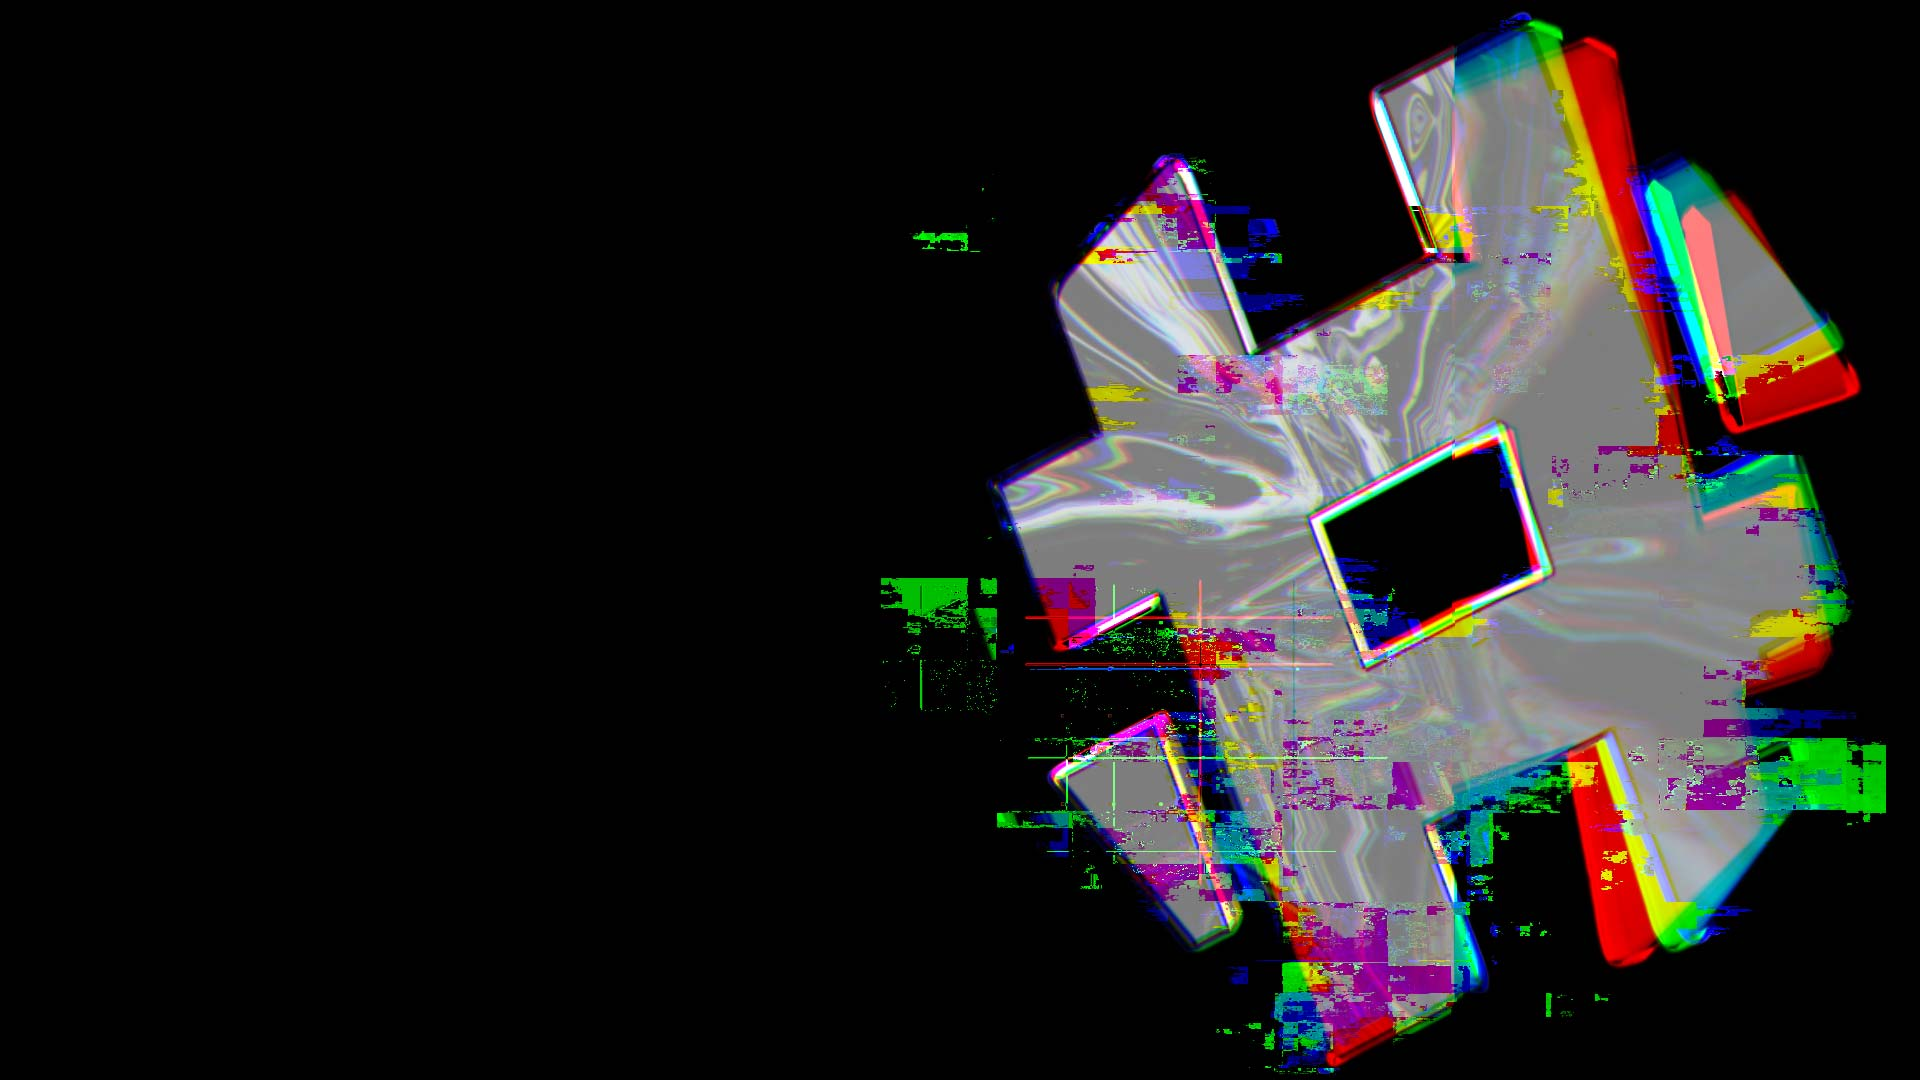
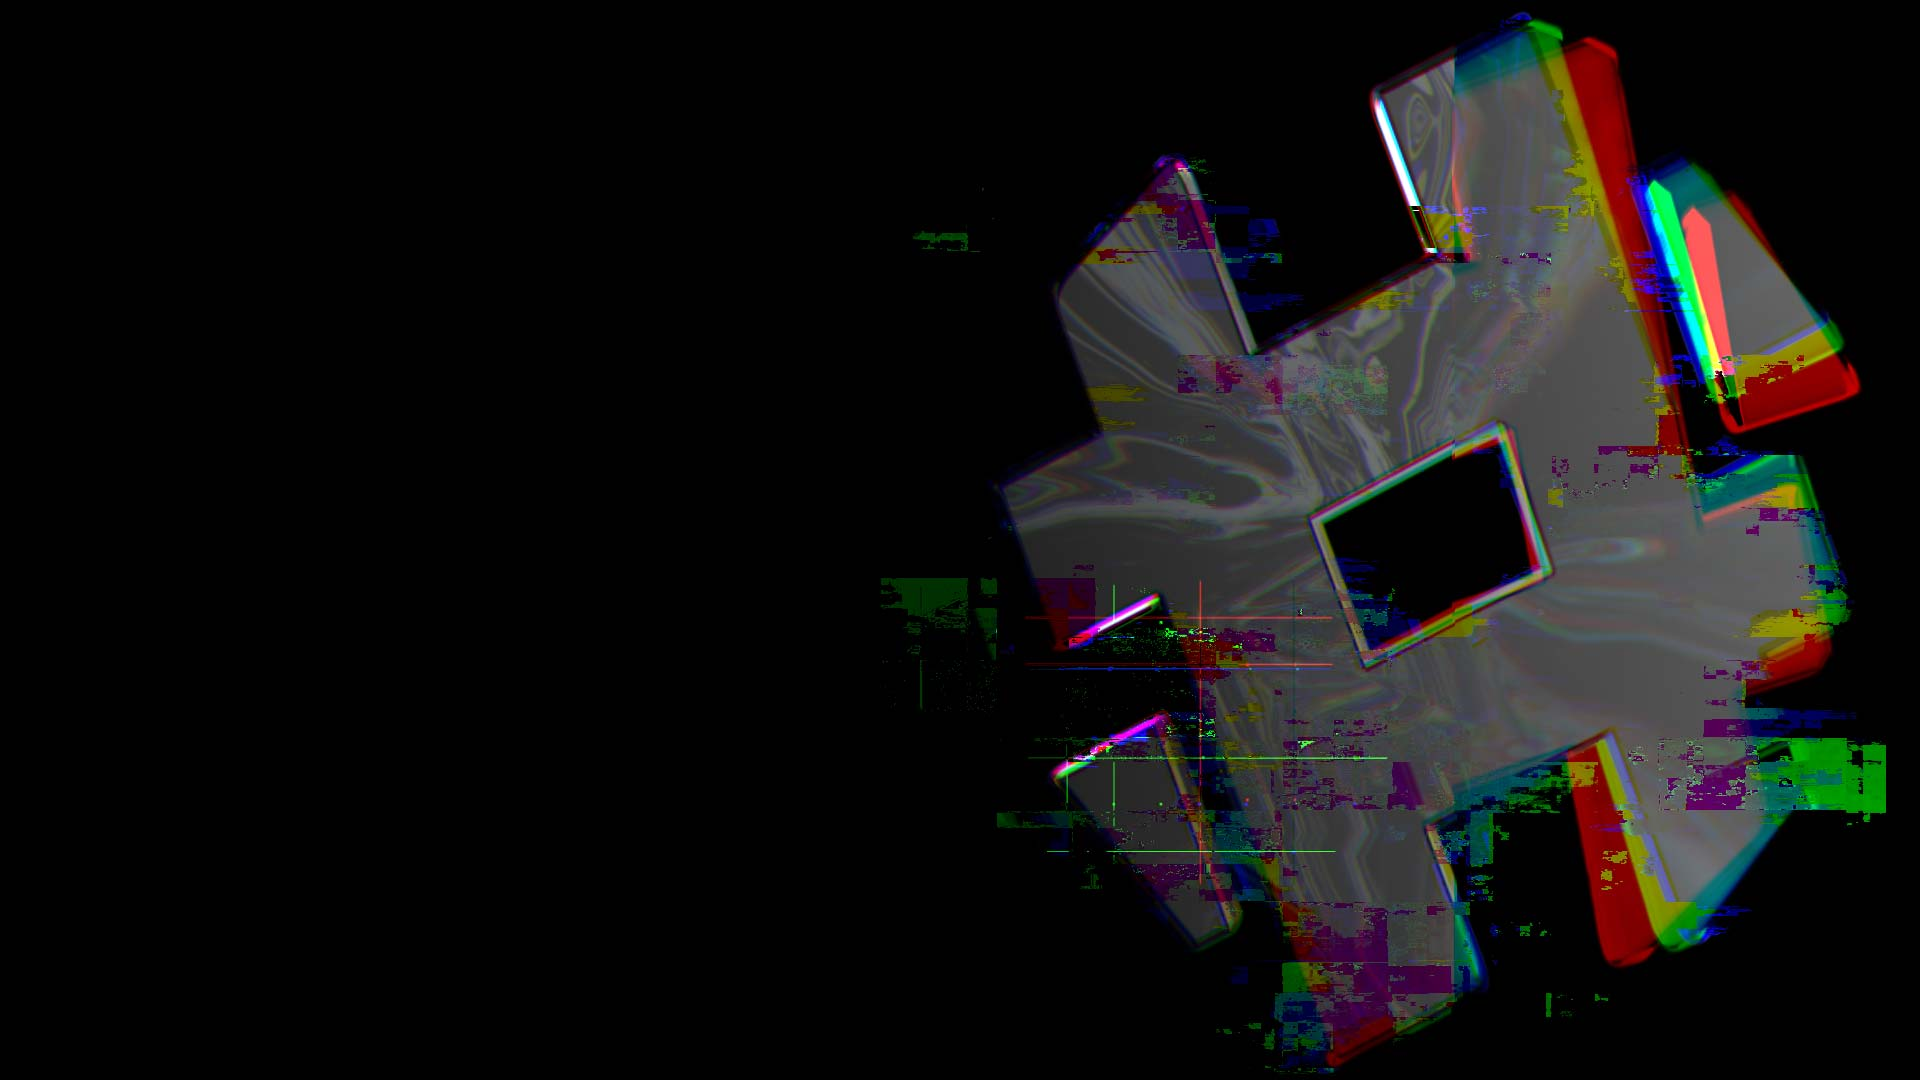
add animations to subpages

Changed region(s): [[0.4375, 0.0, 1.0, 1.0], [0.4688, 0.2139, 0.5, 0.2444]]

diff --git a/src/components/pages/Gamers/PlatformInfo/platformInfo.tsx b/src/components/pages/Gamers/PlatformInfo/platformInfo.tsx
@@ -1,19 +1,27 @@
 import { Flex, Image, Text, Box } from '@chakra-ui/react';
-import React from 'react';
+import React, { useRef, useState, } from 'react';
 import GameXplorerLogo from '../../../../Icons/gameXplorerLogo';
 import PlayVideoIcon from '../../../../Icons/playVideoIcon';
 import SectionInfoButton from '../../../SectionLabel/sectionInfoButton';
 import { Colors } from '../../../../colors';
 import ChevronRightIcon from '../../../../Icons/chevronRightIcon';
+import { HashpadScroll } from './hashPadSroll';
+import { CartridgesScroll } from './cartridgesScroll';
 
 export const PlatformInfo = () => {
+
+	const ref = useRef(null!);
+	const inputRef = useRef(null!)
+
+
+
 	return (
 		<Flex direction="column" justifyContent="flex-start">
 			<Flex direction="column" p="0px 0px 0px 150px"> 
         <Flex maxW='20%'>
         <SectionInfoButton label="PLATFORM"/>
         </Flex>
-				<Flex direction="column" fontSize="70px" fontWeight="700" pt="46px" gridGap="-40px" lineHeight="110%">
+				<Flex direction="column" fontSize="70px" fontWeight="700" pt="46px" gridGap="-40px" lineHeight="110%" zIndex='1'>
 					<Text>With hashup you </Text>
 					<Text>can be a gamer without</Text>
 					<Text>
@@ -21,11 +29,13 @@ export const PlatformInfo = () => {
 					</Text>
 				</Flex>
 			</Flex>
-			<Flex direction="column" position='relative' >
-        <Flex>
-				<Image src="./assets/gamerPlatform.png" pt="50px" />
+			<Flex direction="column" position='relative'>
+        <Flex pt='-30px' ref={inputRef}>
+			<HashpadScroll animationHookReference={inputRef} /> {
+			<Image src='assets/images/hash_pad/iPad_00001.jpg' />
+}
         </Flex>
-				<Flex position='absolute' top='50%' justifyContent="space-between" alignItems='center' p='0px 220px 0px 220px' gridGap='150px'>
+				<Flex position='absolute' top='50%' justifyContent="space-between" alignItems='center' p='40px 220px 0px 220px' gridGap='150px' zIndex='1'>
 					<Flex direction="column" justifyContent="flex-start" gridGap="50px">
 						<GameXplorerLogo />
 						<Box fontSize="26px" fontWeight="500">
@@ -62,7 +72,28 @@ export const PlatformInfo = () => {
 					</Flex>
 				</Flex>
         </Flex>
+		<Flex direction="column" justifyContent="flex-start" >
+			<Flex ref={ref} zIndex='0'>
+			<CartridgesScroll animationHookReference={ref} />
 			</Flex>
+			<Flex direction="column" p="500px 0px 0px 210px" zIndex='1'>
+				<Flex pt='100px' maxW="20%">
+					<SectionInfoButton label="LICENSES" />
+				</Flex>
+                <Flex pt='50px' maxW='70%' fontSize='70px' fontWeight='600' lineHeight='110%' direction='column'>
+                    <Text>Cartrigde what</Text>
+                    <Text>is it to the gamer<strong>?</strong></Text>
+                </Flex>
+                <Box pt='50px' fontSize='26px' maxW='50%' fontWeight='500'>
+                    <Text as='span'> The gaming licenses you purchased on the HashUp platform are in the form of <strong>ERC-20 tokens</strong>.</Text>
+                    <Text as='span' color={Colors.additional}> In short, they work just like other cryptocurrencies. </Text>
+                    <Text pt='50px' color={Colors.additional}> Owning a unit entitles the owner to launch the game. </Text>
+                </Box>
+
+			</Flex>
+		</Flex>
+			</Flex>
+			
 	);
 };
 

diff --git a/src/components/pages/Gamers/PlatformInfo/cartridgesScroll.tsx b/src/components/pages/Gamers/PlatformInfo/cartridgesScroll.tsx
@@ -1,0 +1,49 @@
+import React, { useEffect, useState } from 'react';
+import { Flex, Image } from '@chakra-ui/react';
+
+const assetCount = 24;
+
+const getImageId = () => {
+	const assetCount = 24;
+	const indices = Array.from(Array(assetCount).keys());
+
+	return indices.map((index) => `assets/images/hash_cartridges/cartridge_${index.toString().padStart(5, '0')}.jpg`);
+};
+
+const handleOnScroll = (
+	animationHookReference: any,
+	setCurrentAssetIndex: React.Dispatch<React.SetStateAction<number>>
+) => {
+	if (!animationHookReference.current) {
+		return;
+	}
+
+	const { offsetTop } = animationHookReference.current;
+  	const animationBoundEnd = offsetTop - window.scrollY + 500;
+
+  const assetIndex = Math.min(Math.floor(animationBoundEnd / 30), assetCount);
+  setCurrentAssetIndex(assetIndex);
+
+	setCurrentAssetIndex(assetIndex);
+};
+
+interface IHashupLogoBackground {
+	animationHookReference: React.MutableRefObject<HTMLDivElement>;
+}
+
+export const CartridgesScroll = ({ animationHookReference }: IHashupLogoBackground) => {
+	const [currentAssetIndex, setCurrentAssetIndex] = useState(0);
+	const imageUriArray = getImageId();
+	useEffect(() => {
+		window.removeEventListener('scroll', () => handleOnScroll(animationHookReference, setCurrentAssetIndex));
+		window.addEventListener('scroll', () => handleOnScroll(animationHookReference, setCurrentAssetIndex), {
+			passive: true,
+		});
+
+		return () =>
+			window.removeEventListener('scroll', () => handleOnScroll(animationHookReference, setCurrentAssetIndex));
+	}, []);
+    
+	console.log(imageUriArray[currentAssetIndex])
+	return <Image src={imageUriArray[currentAssetIndex]} />;
+};

diff --git a/src/components/pages/Gamers/PlatformInfo/hashPadSroll.tsx b/src/components/pages/Gamers/PlatformInfo/hashPadSroll.tsx
@@ -1,0 +1,49 @@
+import React, { useEffect, useState } from 'react';
+import { Flex, Image } from '@chakra-ui/react';
+
+const assetCount = 24;
+
+const getImageId = () => {
+	const assetCount = 24;
+	const indices = Array.from(Array(assetCount).keys());
+
+	return indices.map((index) => `assets/images/hash_pad/iPad_${index.toString().padStart(5, '0')}.jpg`);
+};
+
+const handleOnScroll = (
+	animationHookReference: any,
+	setCurrentAssetIndex: React.Dispatch<React.SetStateAction<number>>
+) => {
+	if (!animationHookReference.current) {
+		return;
+	}
+
+	const { offsetTop } = animationHookReference.current;
+  	const animationBoundEnd = offsetTop - window.scrollY + 2400;
+
+  const assetIndex = Math.min(Math.floor(animationBoundEnd / 30), assetCount);
+  setCurrentAssetIndex(assetIndex);
+
+	setCurrentAssetIndex(assetIndex);
+};
+
+interface IHashupLogoBackground {
+	animationHookReference: React.MutableRefObject<HTMLDivElement>;
+}
+
+export const HashpadScroll = ({ animationHookReference }: IHashupLogoBackground) => {
+	const [currentAssetIndex, setCurrentAssetIndex] = useState(0);
+	const imageUriArray = getImageId();
+	useEffect(() => {
+		window.removeEventListener('scroll', () => handleOnScroll(animationHookReference, setCurrentAssetIndex));
+		window.addEventListener('scroll', () => handleOnScroll(animationHookReference, setCurrentAssetIndex), {
+			passive: true,
+		});
+
+		return () =>
+			window.removeEventListener('scroll', () => handleOnScroll(animationHookReference, setCurrentAssetIndex));
+	}, []);
+    
+	console.log(imageUriArray[currentAssetIndex])
+	return <Image src={imageUriArray[currentAssetIndex]} />;
+};

diff --git a/src/components/pages/Creators/BigHashSection/hashScrollImages.tsx b/src/components/pages/Creators/BigHashSection/hashScrollImages.tsx
@@ -19,16 +19,16 @@ const handleOnScroll = (
 	}
 
 	const { offsetTop } = animationHookReference.current;
-	const animationBoundStart = offsetTop - window.scrollY + 2300;
-    const animationEnd = offsetTop - window.scrollY - 10
 
-	let assetIndex = Math.min(Math.floor(animationBoundStart / 30), assetCount);
+	const animationBoundStart = offsetTop - window.scrollY + 2400;
+
+	let assetIndex = Math.min(Math.floor(animationBoundStart / 30 ) , assetCount);
 
     if (assetIndex === 0) {
         assetIndex = 1
     }
-	setCurrentAssetIndex(assetIndex);
 
+	setCurrentAssetIndex(assetIndex);
 };
 
 interface IHashupLogoBackground {
@@ -48,7 +48,6 @@ export const HashScrollImages = ({ animationHookReference }: IHashupLogoBackgrou
 			window.removeEventListener('scroll', () => handleOnScroll(animationHookReference, setCurrentAssetIndex));
 	}, []);
     
-    console.log(imageUriArray[currentAssetIndex])
-
+	console.log(imageUriArray[currentAssetIndex])
 	return <Image src={imageUriArray[currentAssetIndex]} />;
 };

diff --git a/src/pages/investors.tsx b/src/pages/investors.tsx
@@ -1,10 +1,21 @@
-import { Flex, Text } from '@chakra-ui/react'
-import React from 'react'
-import IndexInvestors from '../components/pages/Investors/indexInvestors'
+import { Flex, Box } from '@chakra-ui/react'
+import React, { useRef, useState, } from 'react';
+import { HashScrollImages } from '../components/pages/Creators/BigHashSection/hashScrollImages';
+import { CartridgesScroll } from '../components/pages/Gamers/PlatformInfo/cartridgesScroll';
+import { HashpadScroll } from '../components/pages/Gamers/PlatformInfo/hashPadSroll';
+
 
 export const Investors = () => {
+
+  const ref = useRef(null!);
+  const inputRef = useRef(null!);
+
   return (
-  <IndexInvestors />
+  <Flex >
+    <Box h='400px'  bgColor='red'/>
+    <Flex pt='600px' ref={inputRef}></Flex>
+    <CartridgesScroll animationHookReference={inputRef}/>
+  </Flex>
           
   )
 }

diff --git a/src/components/pages/Gamers/CommunityOwned/communityOwned.tsx b/src/components/pages/Gamers/CommunityOwned/communityOwned.tsx
@@ -22,15 +22,12 @@ export const CommunityOwned = () => {
 	const [activeText, setActiveText] = useState<number>(ActiveText.FIRST);
 	const [isActiveComponent, setIsActiveComponent] = useState<number>(0);
 
-	console.log(isActiveComponent);
-
 	const ref = useRef(null);
 	const inputRef = useRef(null!);
 
 	const { enterCount } = useInViewport(ref, {}, { disconnectOnLeave: false }, {});
 
 	const scrollHandler = (any) => {
-		// console.log(inputRef.current ? convertPxToVw(inputRef.current.getBoundingClientRect().top) : null);
 
 		if (!inputRef.current) {
 			return;

diff --git a/src/components/pages/Gamers/indexGamers.tsx b/src/components/pages/Gamers/indexGamers.tsx
@@ -3,7 +3,6 @@ import { Flex } from '@chakra-ui/react'
 import HeaderGamers from './Header/headerGamers'
 import CommunityOwned from './CommunityOwned/communityOwned'
 import PlatformInfo from './PlatformInfo/platformInfo'
-import Licenses from './Licenses/licenses'
 import LauncherApp from './LauncherApp/launcherApp'
 
 export const IndexGamers = () => {
@@ -12,7 +11,6 @@ export const IndexGamers = () => {
       <HeaderGamers />
       <CommunityOwned />
       <PlatformInfo />
-      <Licenses />
       <LauncherApp />
     </Flex>
   )

diff --git a/src/components/pages/Creators/BigHashSection/bigHashSection.tsx b/src/components/pages/Creators/BigHashSection/bigHashSection.tsx
@@ -24,7 +24,7 @@ export const BigHashSection = () => {
 					direction="column"
 					gridGap="45px"
 					ml="10.5%"
-					mt="300px"
+					mt="200px"
 					position="relative"
 					zIndex="100"
 					ref={ref}
